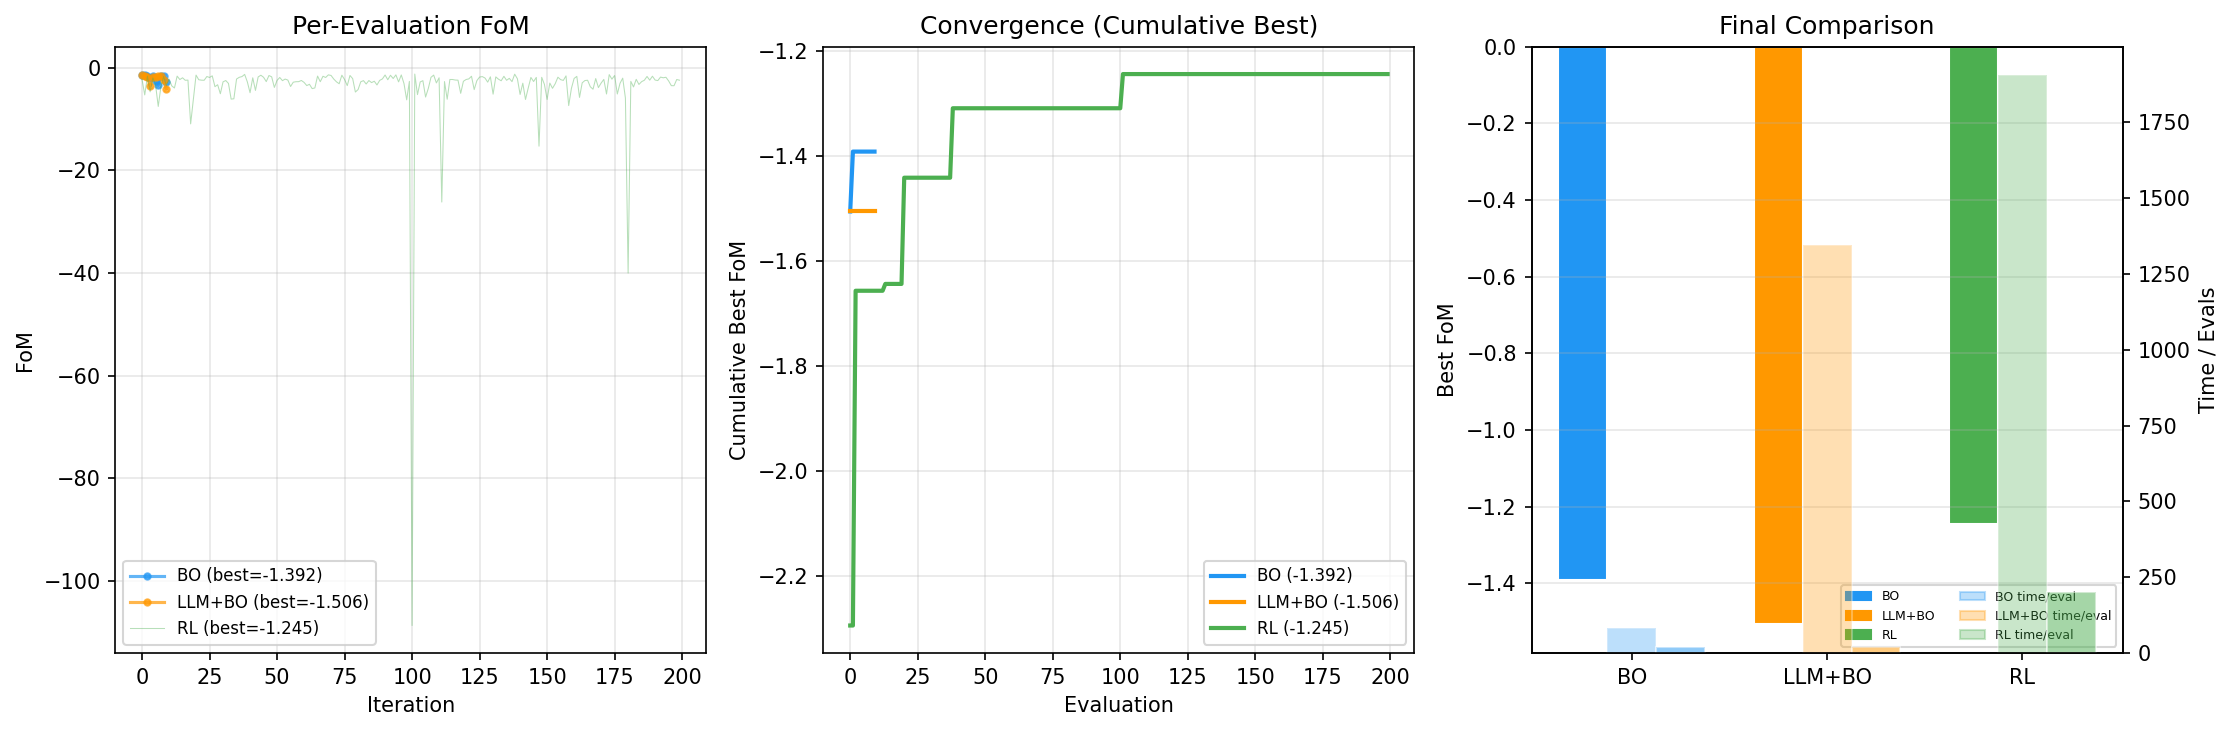
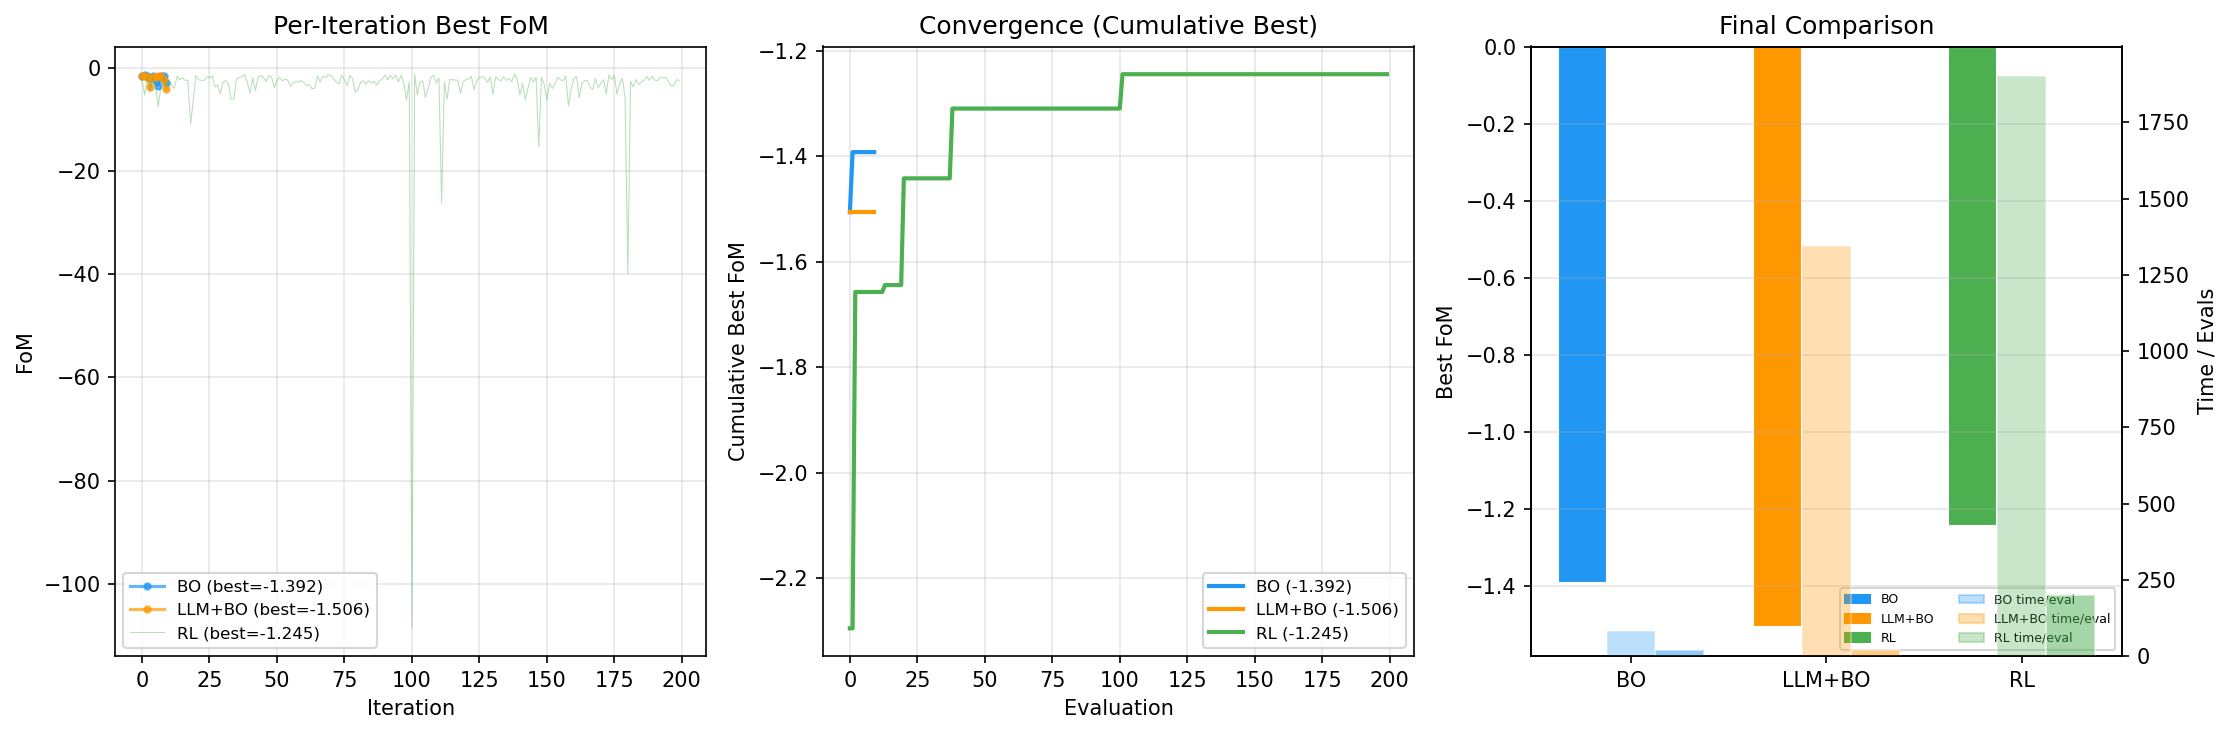
docs: clarify plot axis and add note about sparse iteration traces
Panel 1 title changed from "Per-Evaluation FoM" to "Per-Iteration Best FoM".
Added explanation that BO/LLMBO only record per-iteration best (losing
candidates and Sobol init points omitted), so traces appear sparser than RL.

diff --git a/report/plot_results.py b/report/plot_results.py
@@ -29,7 +29,7 @@ def plot_convergence(bo, llmbo, rl, out):
     ax1.plot(range(len(rl_foms)), rl_foms, alpha=0.4, linewidth=0.5, label=f"RL (best={max(rl_foms):.3f})", color="#4CAF50")
     ax1.set_xlabel("Iteration")
     ax1.set_ylabel("FoM")
-    ax1.set_title("Per-Evaluation FoM")
+    ax1.set_title("Per-Iteration Best FoM")
     ax1.legend(fontsize=8)
     ax1.grid(True, alpha=0.3)
 

diff --git a/report/report.md b/report/report.md
@@ -61,6 +61,8 @@
 
 ![comparison](figures/comparison.png)
 
+> **图表说明**：Panel 1 展示的是"每轮迭代最优 FoM"而非"每次评估 FoM"。BO 每轮 1 次评估，共 10 个 BO 迭代点（不含 10 个 Sobol 初始点）；LLM+BO 每轮评估 3 个候选点（1 BO + 2 LLM），图中仅保留最优者，共 10 个迭代点（不含 10 个 Sobol 初始点 + 每轮被淘汰的 2 个候选点）；RL 则记录了全部 200 个 step 的奖励值。因此 BO 和 LLM+BO 的曲线显得稀疏/平滑，实际评估过程中的波动比图中更大。
+
 - **BO**：收敛最快，第 2 个优化步即找到最佳点（-1.39），之后在相近水平波动
 - **LLM+BO**：波动大（-1.5 ~ -4.1），LLM 提议的点质量不稳定，未超越 BO
 - **RL**：200 步中 FoM 在 -1.24 ~ -4.0 间波动，最佳在 step 101（刚结束随机探索），未观察到明显的学习曲线
